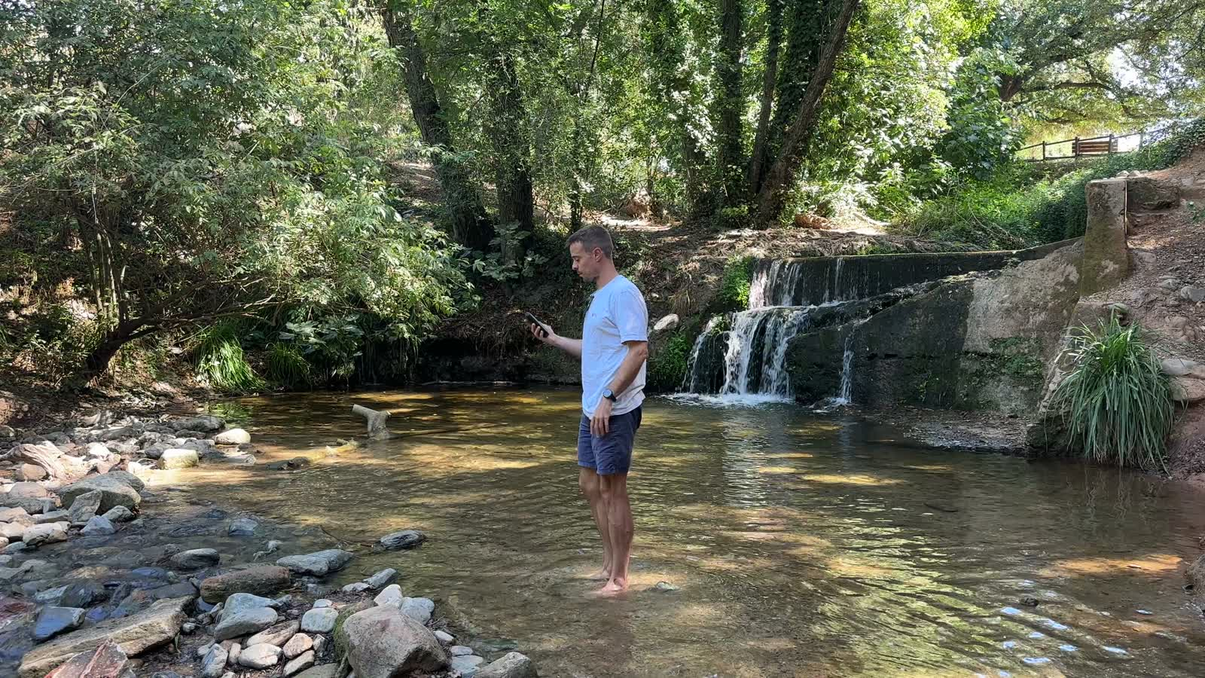
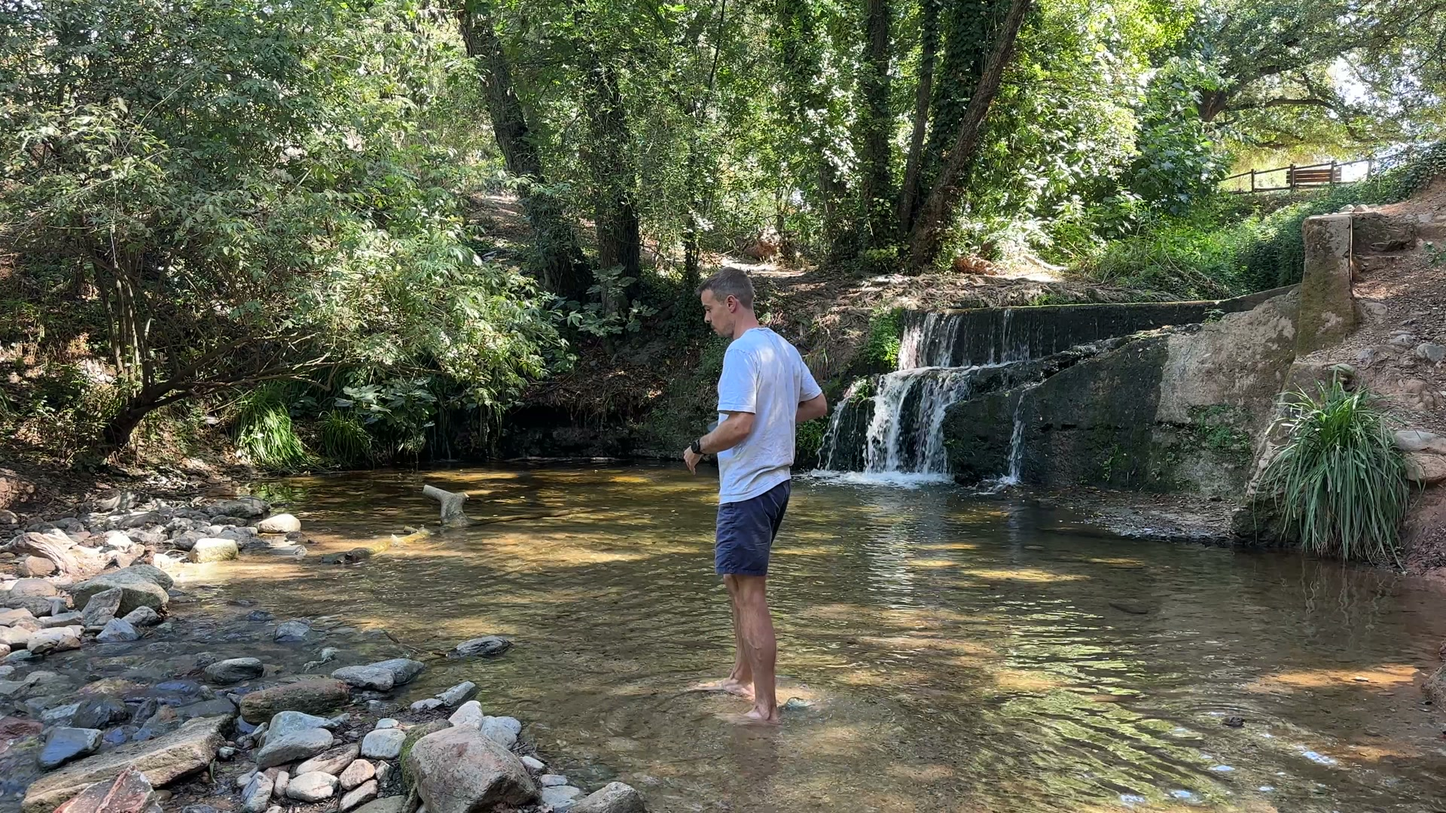
Fix hero trim to 0:15-5:05, release 1de9315d

diff --git a/lib/video.ts b/lib/video.ts
@@ -10,7 +10,7 @@ export const aboutVideo = {
 // For replacements, use the versioned URL emitted by prepare-home-video.mjs.
 // The poster stays local so the frame paints before any stream request.
 export const homeR2 = {
-  src: "https://hero-video-proxy.albertolivecorbella.workers.dev/hls/ae741609baa4356b787a2a75b2d5f8ef987a64d0392bb976966c8e0eb2231da5/master.m3u8",
+  src: "https://hero-video-proxy.albertolivecorbella.workers.dev/hls/1de9315dc6c59c8de9af8db574e01db0999ea8656ecf340231c773c03b92c36c/master.m3u8",
   poster: "/images/hero-poster.jpg",
 } as const;
 
